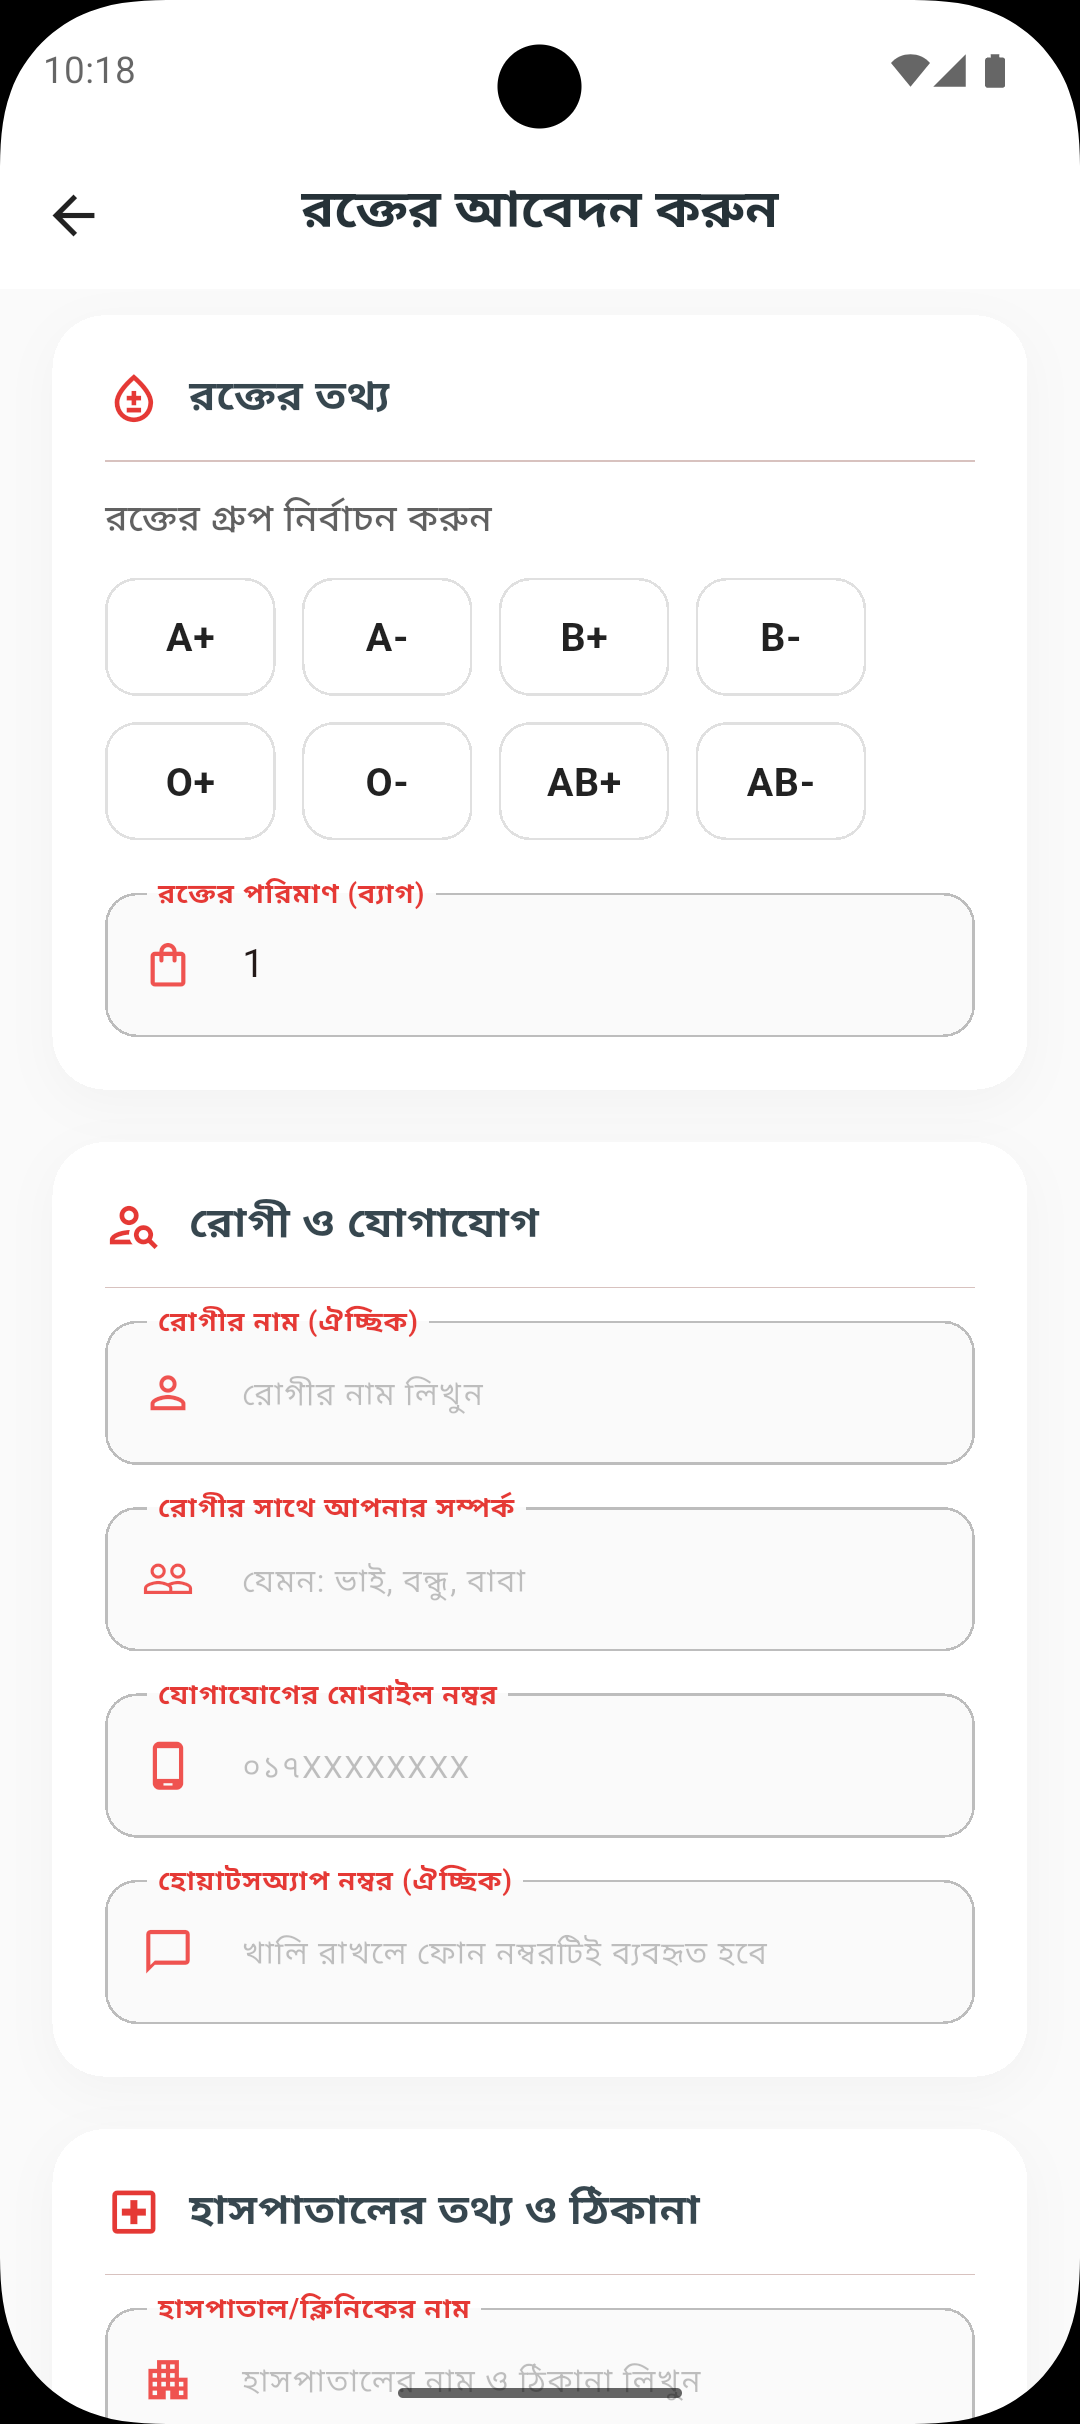
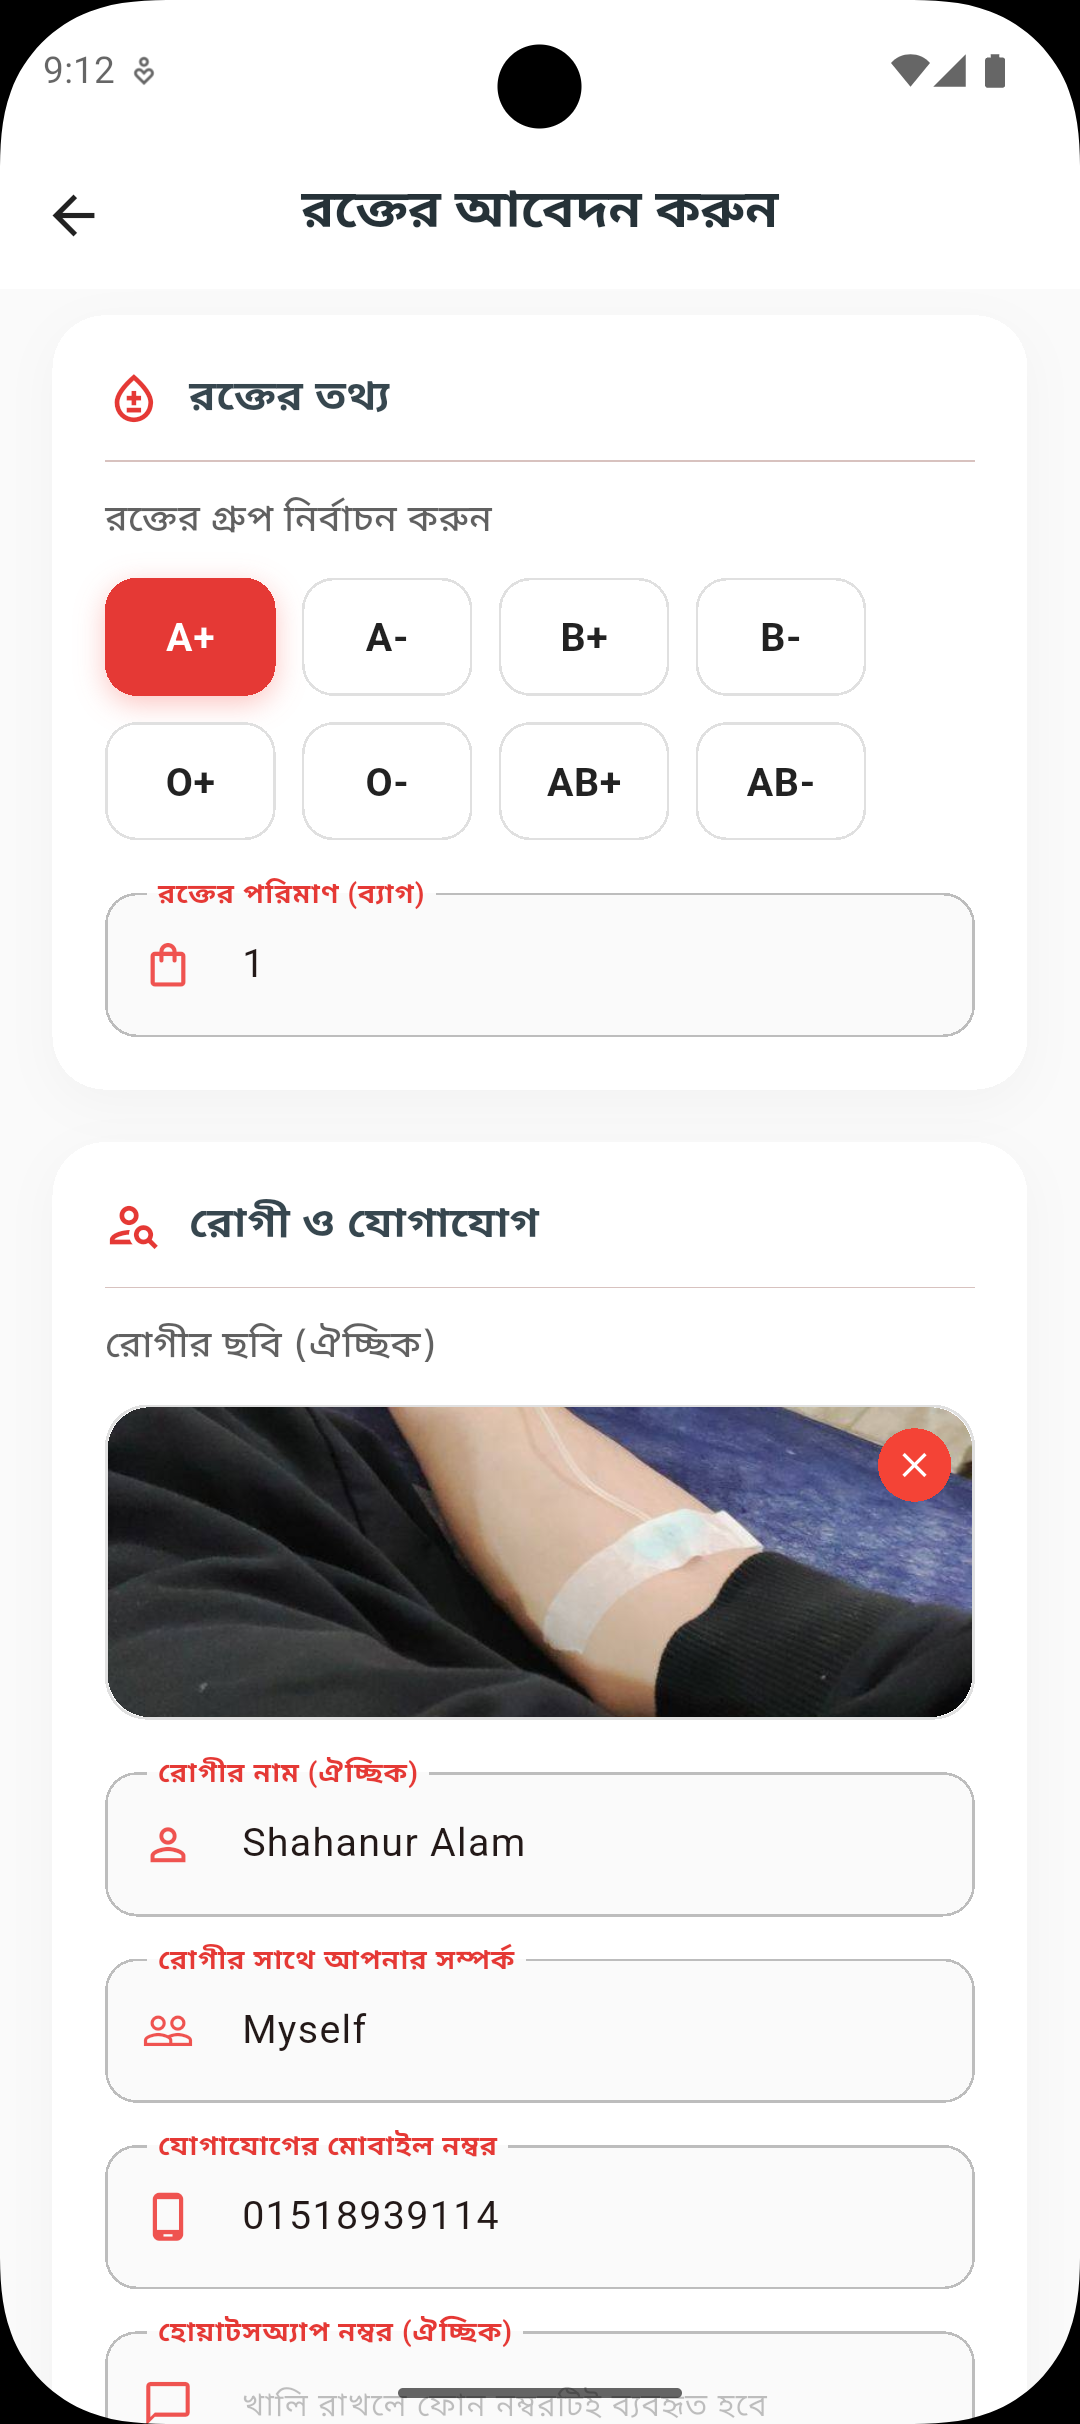
Implement optional patient photo uploads for blood requests
- Add support for picking and uploading patient images using `image_picker` and `CloudinaryService` in `CreateRequestScreen`
- Update `BloodRequestModel` to include an optional `patientImageUrl` field
- Enhance `CreateRequestScreen` UI with a dedicated image picker area and preview functionality
- Add English and Bengali localization strings for patient photo fields
- Update README to reflect new patient photo support and project improvements

diff --git a/lib/presentation/screens/requests/create_request_screen.dart b/lib/presentation/screens/requests/create_request_screen.dart
@@ -1,7 +1,9 @@
 import 'dart:convert';
+import 'dart:io';
 import 'package:flutter/material.dart';
 import 'package:flutter/services.dart';
 import 'package:flutter_riverpod/flutter_riverpod.dart';
+import 'package:image_picker/image_picker.dart';
 import 'package:intl/intl.dart';
 import 'package:google_fonts/google_fonts.dart';
 import 'package:cloud_firestore/cloud_firestore.dart';
@@ -9,6 +11,7 @@ import '../../../data/models/blood_request_model.dart';
 import '../../providers/auth_provider.dart';
 import '../../providers/blood_request_provider.dart';
 import '../../../core/services/notification_service.dart';
+import '../../../core/services/cloudinary_service.dart';
 import '../../providers/language_provider.dart';
 
 class CreateRequestScreen extends ConsumerStatefulWidget {
@@ -39,6 +42,8 @@ class _CreateRequestScreenState extends ConsumerState<CreateRequestScreen> {
   String? _selectedThana;
   String? _selectedUnion;
   bool _isLoadingData = true;
+  File? _patientImage;
+  final ImagePicker _picker = ImagePicker();
 
   final List<String> _bloodGroups = ['A+', 'A-', 'B+', 'B-', 'O+', 'O-', 'AB+', 'AB-'];
 
@@ -65,6 +70,13 @@ class _CreateRequestScreenState extends ConsumerState<CreateRequestScreen> {
     }
   }
 
+  Future<void> _pickImage() async {
+    final XFile? image = await _picker.pickImage(source: ImageSource.gallery, imageQuality: 70);
+    if (image != null) {
+      setState(() => _patientImage = File(image.path));
+    }
+  }
+
   Future<void> _submitRequest() async {
     if (!_formKey.currentState!.validate()) return;
     if (_selectedBloodGroup == null) {
@@ -80,6 +92,11 @@ class _CreateRequestScreenState extends ConsumerState<CreateRequestScreen> {
     if (user == null) return;
 
     setState(() => _isLoadingData = true);
+
+    String? imageUrl;
+    if (_patientImage != null) {
+      imageUrl = await CloudinaryService.uploadFile(_patientImage!);
+    }
     
     final request = BloodRequestModel(
       requestId: '',
@@ -93,6 +110,7 @@ class _CreateRequestScreenState extends ConsumerState<CreateRequestScreen> {
       hospitalName: _hospitalController.text.trim(),
       patientProblem: _problemController.text.trim(),
       description: _descriptionController.text.trim(),
+      patientImageUrl: imageUrl,
       whatsappNumber: _whatsappController.text.trim().isEmpty ? _phoneController.text.trim() : _whatsappController.text.trim(),
       division: _selectedDivision ?? '',
       district: _selectedDistrict ?? '',
@@ -197,6 +215,8 @@ class _CreateRequestScreenState extends ConsumerState<CreateRequestScreen> {
                       icon: Icons.person_search_outlined,
                       child: Column(
                         children: [
+                          _buildImagePickerArea(),
+                          const SizedBox(height: 20),
                           _buildInputField(
                             controller: _patientNameController,
                             label: ref.tr('patient_name_opt'),
@@ -311,6 +331,53 @@ class _CreateRequestScreenState extends ConsumerState<CreateRequestScreen> {
                 ),
               ),
             ),
+    );
+  }
+
+  Widget _buildImagePickerArea() {
+    return Column(
+      crossAxisAlignment: CrossAxisAlignment.start,
+      children: [
+        Text(ref.tr('patient_image_opt'), style: GoogleFonts.notoSansBengali(fontSize: 14, color: Colors.grey.shade700, fontWeight: FontWeight.w500)),
+        const SizedBox(height: 12),
+        InkWell(
+          onTap: _pickImage,
+          child: Container(
+            height: 120,
+            width: double.infinity,
+            decoration: BoxDecoration(
+              color: Colors.grey.shade50,
+              borderRadius: BorderRadius.circular(16),
+              border: Border.all(color: Colors.grey.shade300, style: BorderStyle.solid),
+            ),
+            child: _patientImage != null
+                ? Stack(
+                    children: [
+                      ClipRRect(
+                        borderRadius: BorderRadius.circular(16),
+                        child: Image.file(_patientImage!, width: double.infinity, height: 120, fit: BoxFit.cover),
+                      ),
+                      Positioned(
+                        right: 8,
+                        top: 8,
+                        child: InkWell(
+                          onTap: () => setState(() => _patientImage = null),
+                          child: const CircleAvatar(backgroundColor: Colors.red, radius: 14, child: Icon(Icons.close, color: Colors.white, size: 16)),
+                        ),
+                      ),
+                    ],
+                  )
+                : Column(
+                    mainAxisAlignment: MainAxisAlignment.center,
+                    children: [
+                      Icon(Icons.add_a_photo_outlined, color: Colors.grey.shade400, size: 32),
+                      const SizedBox(height: 8),
+                      Text(ref.tr('add_patient_image'), style: TextStyle(color: Colors.grey.shade500, fontSize: 13)),
+                    ],
+                  ),
+          ),
+        ),
+      ],
     );
   }
 

diff --git a/lib/data/models/blood_request_model.dart b/lib/data/models/blood_request_model.dart
@@ -13,6 +13,7 @@ class BloodRequestModel {
   final String patientProblem;
   final String description; 
   final String phoneNumber;
+  final String? patientImageUrl;
   final String? whatsappNumber;
   final String division;
   final String district;
@@ -44,6 +45,7 @@ class BloodRequestModel {
     required this.patientProblem,
     required this.description,
     required this.phoneNumber,
+    this.patientImageUrl,
     this.whatsappNumber,
     required this.division,
     required this.district,
@@ -77,6 +79,7 @@ class BloodRequestModel {
       patientProblem: map['patientProblem'] ?? '',
       description: map['description'] ?? '',
       phoneNumber: map['phoneNumber'] ?? '',
+      patientImageUrl: map['patientImageUrl'],
       whatsappNumber: map['whatsappNumber'],
       division: map['division'] ?? '',
       district: map['district'] ?? '',
@@ -110,6 +113,7 @@ class BloodRequestModel {
       'patientProblem': patientProblem,
       'description': description,
       'phoneNumber': phoneNumber,
+      'patientImageUrl': patientImageUrl,
       'whatsappNumber': whatsappNumber,
       'division': division,
       'district': district,

diff --git a/lib/core/localization/app_translations.dart b/lib/core/localization/app_translations.dart
@@ -232,6 +232,8 @@ class AppTranslations {
       'blood_info': 'Blood Information',
       'blood_bags_count': 'Amount of Blood (Bags)',
       'patient_contact': 'Patient & Contact',
+      'patient_image_opt': 'Patient Photo (Optional)',
+      'add_patient_image': 'Add Patient Photo',
       'patient_name_opt': 'Patient Name (Optional)',
       'relation_with_patient': 'Your Relation with Patient',
       'contact_phone': 'Contact Mobile Number',
@@ -577,6 +579,8 @@ class AppTranslations {
       'blood_info': 'রক্তের তথ্য',
       'blood_bags_count': 'রক্তের পরিমাণ (ব্যাগ)',
       'patient_contact': 'রোগী ও যোগাযোগ',
+      'patient_image_opt': 'রোগীর ছবি (ঐচ্ছিক)',
+      'add_patient_image': 'রোগীর ছবি যুক্ত করুন',
       'patient_name_opt': 'রোগীর নাম (ঐচ্ছিক)',
       'relation_with_patient': 'রোগীর সাথে আপনার সম্পর্ক',
       'contact_phone': 'যোগাযোগের মোবাইল নম্বর',

diff --git a/README.md b/README.md
@@ -25,30 +25,30 @@
 ## ✨ Key Features
 
 ### 🚀 Advanced Communication
-- **Real-time Video & Voice Calls**: Direct and secure communication between donors and recipients via **Agora RTC**.
-- **Rich Messaging Engine**: Chat with support for **Images & Videos**, powered by **Cloudinary**.
-- **Interactive Media Previews**: Preview images/videos with captions before sending.
+- **Real-time Video & Voice Calls**: Seamless communication via **Agora RTC** for donors and recipients.
+- **Rich Media Messaging**: Share **Images & Videos** in chat with high-speed delivery powered by **Cloudinary**.
+- **Interactive Previews**: Send media with **Captions** and enjoy an integrated video player experience.
 
-### 🩸 Smart Donor Ecosystem
+### 🩸 Smart Blood Request System
+- **Patient Photo Support**: Optionally upload the patient's photo to increase the credibility of the request.
 - **Hyper-Local Precision**: Integrated with detailed Bangladeshi location data (Division, District, Upazila, Union).
-- **Gamified Ranking System**: Incentivizing donors with ranks from **Newbie** to **Diamond**.
-- **Instant Emergency Alerts**: High-visibility blood request cards with location-based notifications.
+- **Emergency Priority**: High-visibility alerts and push notifications for urgent blood requirements.
 
-### 📄 Professional Management
-- **PDF Generation**: Download professional donation history reports with full Bengali font support.
-- **Dynamic Profile System**: Upload and manage profile pictures with ease.
-- **Bi-lingual Interface**: Fully localized experience in both **Bangla** and **English**.
+### 🏅 Gamification & Management
+- **Donor Ranks**: Dynamic milestone-based ranking system from **Newbie** to **Diamond**.
+- **PDF History**: Generate professional donation reports and receipts with full Bengali font support.
+- **Bi-lingual UI**: Fully localized experience in both **Bangla** and **English**.
 
 ---
 
 ## 🛠 Tech Stack & Architecture
 
 - **Frontend**: Flutter (Dart)
-- **State Management**: [Riverpod](https://riverpod.dev/) (Refined logic and data flow)
-- **Real-time Backend**: Firebase (Firestore, Cloud Messaging, Auth, Storage)
-- **Media Engine**: Cloudinary (High-speed image/video hosting)
+- **State Management**: [Riverpod](https://riverpod.dev/) (Scalable & predictable logic)
+- **Backend**: Firebase (Firestore, Cloud Messaging, Auth, Storage)
+- **Media Hosting**: Cloudinary (Image & Video optimization)
 - **RTC Engine**: Agora RTC SDK
-- **Architecture**: Clean Architecture (Layered separation of concerns)
+- **Design Pattern**: Clean Architecture (Separation of Concerns)
 
 ---
 
@@ -59,9 +59,9 @@
    git clone https://github.com/shahanuralamofficial/blood_donate.git
    ```
 
-2. **Configure Services**:
-   - Update `google-services.json` in `android/app/`.
-   - Update your **Agora App ID** and **Cloudinary Credentials** in the `core/services` folder.
+2. **Setup Services**:
+   - Add `google-services.json` to `android/app/`.
+   - Update **Agora App ID** and **Cloudinary Credentials** in `core/services/`.
 
 3. **Install & Run**:
    ```bash
@@ -77,5 +77,5 @@ This project is licensed under the MIT License - see the [LICENSE](LICENSE) file
 ---
 <p align="center">
   <b>Developed with ❤ for the Community.</b><br>
-  <i>"Your one drop of blood can save a life today."</i>
+  <i>"Your one drop of blood can bring a smile to a family."</i>
 </p>
